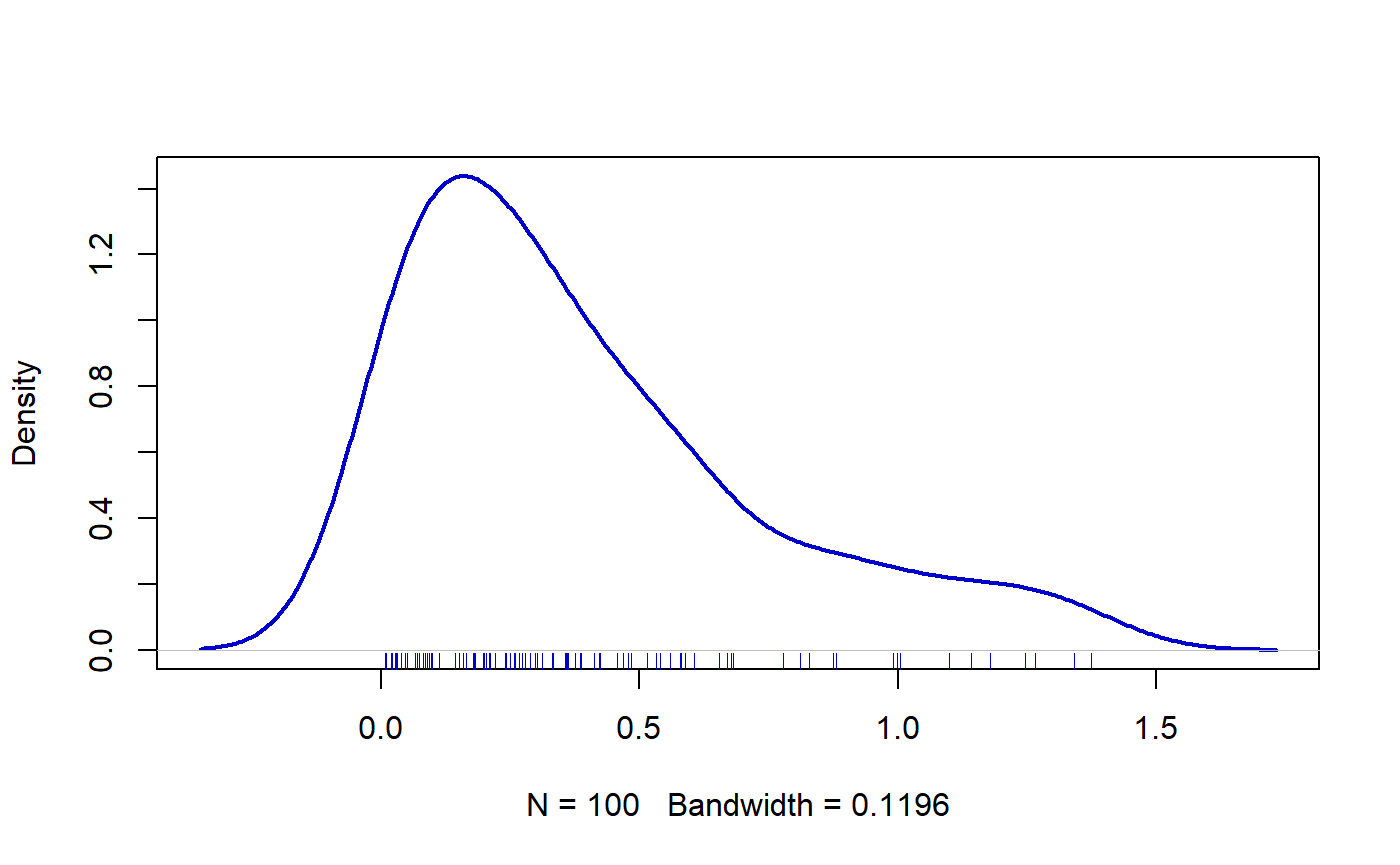
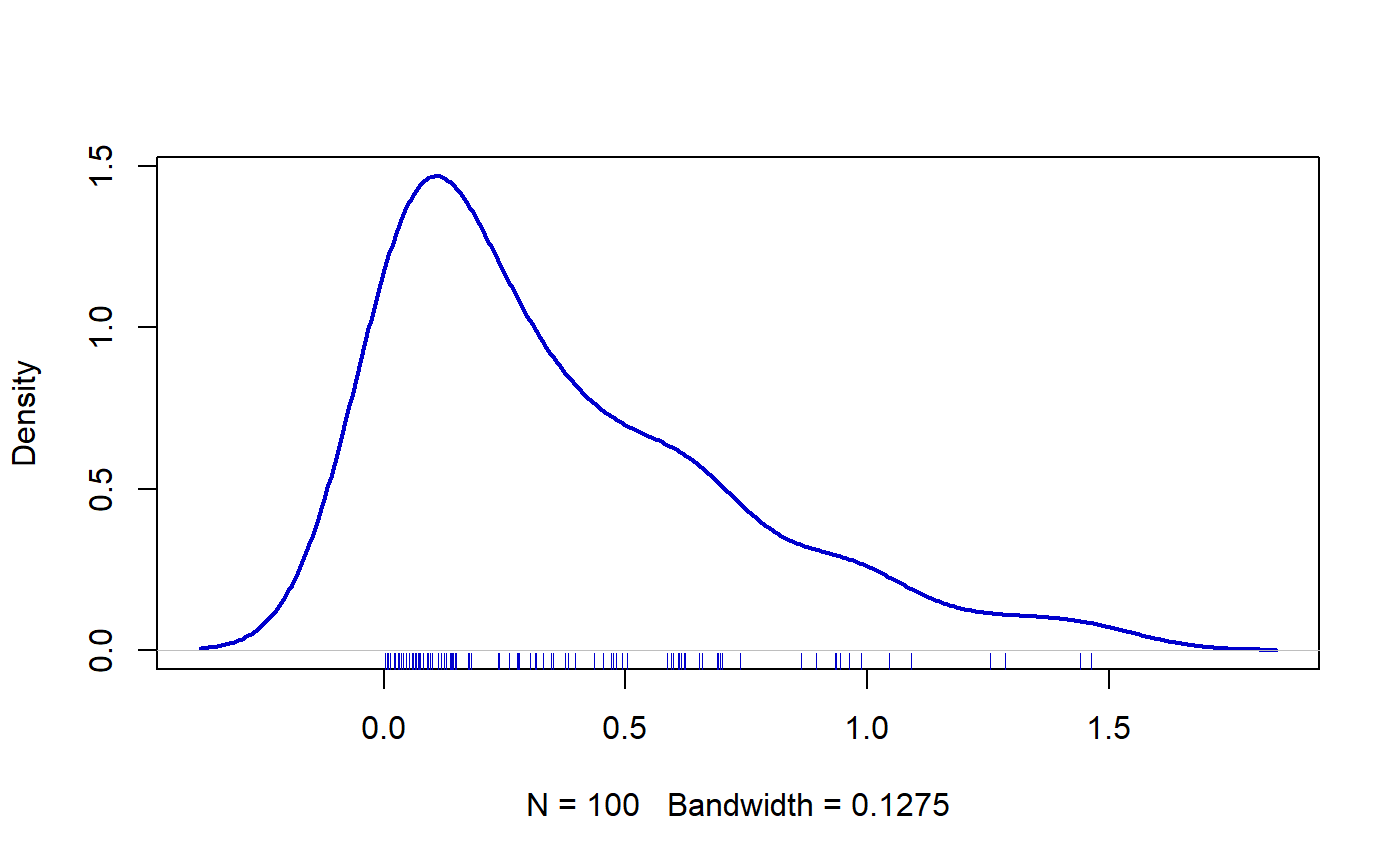
mejorado

diff --git a/docs/articles/EW_distribution.html b/docs/articles/EW_distribution.html
@@ -84,13 +84,13 @@
 <div id="exponentiated-weibull-distribution" class="section level2">
 <h2 class="hasAnchor">
 <a href="#exponentiated-weibull-distribution" class="anchor"></a>Exponentiated Weibull distribution</h2>
-<p>In this vignette we explore the family <code>EW</code> family to estimate parameters.</p>
+<p>In this vignette we explore the Exponentiated Weibull distribution.</p>
 <p>The distribution was proposed by Mudholkar and Srivastava (1993) but in this document we used the parameterization given by Almalki and Nadarajah (2014).</p>
 <p>The pdf of the EW distribution is:</p>
-<p><span class="math display">\[f(x)=\nu \mu \sigma x^{\sigma-1} e^{-\mu x^{\sigma}}
-      (1-e^{-\mu x^{\sigma}})^{\nu-1}, \quad x&gt;0,\]</span></p>
+<p><span class="math display">\[f(x) = \nu \mu \sigma x^{\sigma-1} \exp(-\mu x^\sigma)
+      (1-\exp(-\mu x^\sigma))^{\nu-1}, \quad x&gt;0,\]</span></p>
 <p>where <span class="math inline">\(\mu\)</span>, <span class="math inline">\(\sigma\)</span>, <span class="math inline">\(\nu\)</span> &gt; 0; <span class="math inline">\(\mu\)</span> is a scale parameter and <span class="math inline">\(\sigma\)</span> and <span class="math inline">\(\nu\)</span> are shape parameters.</p>
-<p>For some values of the parameters, the Exponentiated Weibull distribution yiels some known distributions, the next table shows that cases.</p>
+<p>For some values of the parameters, the Exponentiated Weibull distribution yiels some known distributions, the next table shows those cases.</p>
 <table class="table">
 <thead><tr class="header">
 <th align="left"><span class="math inline">\(\mu\)</span></th>
@@ -131,12 +131,12 @@
 </tr>
 </tbody>
 </table>
-<p>The next figure shows possible shapes of the pdf for several values of the parameters:</p>
+<p>The next figure shows possible shapes of the probability density function for several values of the parameters:</p>
 <p><img src="EW_distribution_files/figure-html/densidad1-1.png" width="700"></p>
 </div>
-<div id="without-covariates" class="section level2">
+<div id="estimation-parameters-without-covariates" class="section level2">
 <h2 class="hasAnchor">
-<a href="#without-covariates" class="anchor"></a>1) Without covariates</h2>
+<a href="#estimation-parameters-without-covariates" class="anchor"></a>1) Estimation parameters without covariates</h2>
 <div id="example-from-mudholkar-and-hutson-1996-page-3077" class="section level3">
 <h3 class="hasAnchor">
 <a href="#example-from-mudholkar-and-hutson-1996-page-3077" class="anchor"></a>Example from Mudholkar and Hutson (1996) page 3077</h3>
@@ -169,9 +169,7 @@ mod &lt;-<span class="st"> </span><span class="kw">gamlss</span>(y<span class="o
 <h3 class="hasAnchor">
 <a href="#using-simulated-data" class="anchor"></a>Using simulated data</h3>
 <p>First, we simulate 100 values for the distribution using known parameters.</p>
-<div class="sourceCode"><pre class="sourceCode r"><code class="sourceCode r">y &lt;-<span class="st"> </span><span class="kw"><a href="../reference/dEW.html">rEW</a></span>(<span class="dt">n=</span><span class="dv">100</span>, <span class="dt">mu=</span><span class="fl">2.0</span>, <span class="dt">sigma=</span><span class="fl">1.5</span>, <span class="dt">nu=</span><span class="fl">0.5</span>)</code></pre></div>
-<p>Next figure shows the density for the <code>y</code> vector.</p>
-<p><img src="EW_distribution_files/figure-html/density03-1.png" width="700"></p>
+<div class="sourceCode"><pre class="sourceCode r"><code class="sourceCode r">y &lt;-<span class="st"> </span><span class="kw"><a href="../reference/dEW.html">rEW</a></span>(<span class="dt">n=</span><span class="dv">100</span>, <span class="dt">mu=</span><span class="dv">5</span>, <span class="dt">sigma=</span><span class="fl">0.5</span>, <span class="dt">nu=</span><span class="dv">10</span>)</code></pre></div>
 <p>Now we use the <code>gamlss</code> function from <strong>gamlss</strong> package to estimate the parameters.</p>
 <div class="sourceCode"><pre class="sourceCode r"><code class="sourceCode r"><span class="kw">require</span>(gamlss)
 mod &lt;-<span class="st"> </span><span class="kw">gamlss</span>(y<span class="op">~</span><span class="dv">1</span>, <span class="dt">sigma.fo=</span><span class="op">~</span><span class="dv">1</span>, <span class="dt">nu.fo=</span><span class="op">~</span><span class="dv">1</span>, <span class="dt">family=</span><span class="st">'EW'</span>,
@@ -179,20 +177,26 @@ mod &lt;-<span class="st"> </span><span class="kw">gamlss</span>(y<span class="o
 <p>To obtain the fitted values for <span class="math inline">\(\mu\)</span>, <span class="math inline">\(\sigma\)</span> and <span class="math inline">\(\nu\)</span> we use the inverse link function <span class="math inline">\(\log()\)</span>.</p>
 <div class="sourceCode"><pre class="sourceCode r"><code class="sourceCode r"><span class="kw">exp</span>(<span class="kw">coef</span>(mod, <span class="dt">what=</span><span class="st">'mu'</span>))
 ## (Intercept) 
-##    2.423505
+##     5.23978
 <span class="kw">exp</span>(<span class="kw">coef</span>(mod, <span class="dt">what=</span><span class="st">'sigma'</span>))
 ## (Intercept) 
-##     1.30561
+##     0.55703
 <span class="kw">exp</span>(<span class="kw">coef</span>(mod, <span class="dt">what=</span><span class="st">'nu'</span>))
 ## (Intercept) 
-##   0.7310611</code></pre></div>
-<p>The results show that estimated parameters are close the true parameters <span class="math inline">\(\mu\)</span>, <span class="math inline">\(\sigma\)</span> and <span class="math inline">\(\nu\)</span>.</p>
+##    9.129507</code></pre></div>
+<p>The results show that estimated parameters are close to the true parameters <span class="math inline">\(\mu\)</span>, <span class="math inline">\(\sigma\)</span> and <span class="math inline">\(\nu\)</span>.</p>
+<p>In the next figure we have the empirical density (blue) and the fitted density (black). We note that the fitted distribution explains better the observed data.</p>
+<div class="sourceCode"><pre class="sourceCode r"><code class="sourceCode r"><span class="kw">plot</span>(<span class="kw">density</span>(y), <span class="dt">lwd=</span><span class="dv">2</span>, <span class="dt">col=</span><span class="st">'blue3'</span>, <span class="dt">main=</span><span class="st">''</span>, <span class="dt">las=</span><span class="dv">1</span>)
+<span class="kw">curve</span>(<span class="kw"><a href="../reference/dEW.html">dEW</a></span>(x, <span class="dt">mu=</span><span class="kw">exp</span>(<span class="kw">coef</span>(mod, <span class="dt">what=</span><span class="st">'mu'</span>)), 
+          <span class="dt">sigma=</span><span class="kw">exp</span>(<span class="kw">coef</span>(mod, <span class="dt">what=</span><span class="st">'sigma'</span>)), 
+          <span class="dt">nu=</span><span class="kw">exp</span>(<span class="kw">coef</span>(mod, <span class="dt">what=</span><span class="st">'nu'</span>))), 
+      <span class="dt">from=</span><span class="fl">0.01</span>, <span class="dt">add=</span><span class="ot">TRUE</span>, <span class="dt">lwd=</span><span class="dv">2</span>)</code></pre></div>
+<p><img src="EW_distribution_files/figure-html/unnamed-chunk-7-1.png" width="700"></p>
 </div>
 </div>
-<div id="with-covariates" class="section level2">
+<div id="estimation-parameters-with-covariates" class="section level2">
 <h2 class="hasAnchor">
-<a href="#with-covariates" class="anchor"></a>2) With covariates</h2>
-<p>Here …</p>
+<a href="#estimation-parameters-with-covariates" class="anchor"></a>2) Estimation parameters with covariates</h2>
 </div>
   </div>
 
@@ -202,8 +206,8 @@ mod &lt;-<span class="st"> </span><span class="kw">gamlss</span>(y<span class="o
 <a href="#tocnav" class="anchor"></a>Contents</h2>
       <ul class="nav nav-pills nav-stacked">
 <li><a href="#exponentiated-weibull-distribution">Exponentiated Weibull distribution</a></li>
-      <li><a href="#without-covariates">1) Without covariates</a></li>
-      <li><a href="#with-covariates">2) With covariates</a></li>
+      <li><a href="#estimation-parameters-without-covariates">1) Estimation parameters without covariates</a></li>
+      <li><a href="#estimation-parameters-with-covariates">2) Estimation parameters with covariates</a></li>
       </ul>
 </div>
       </div>
